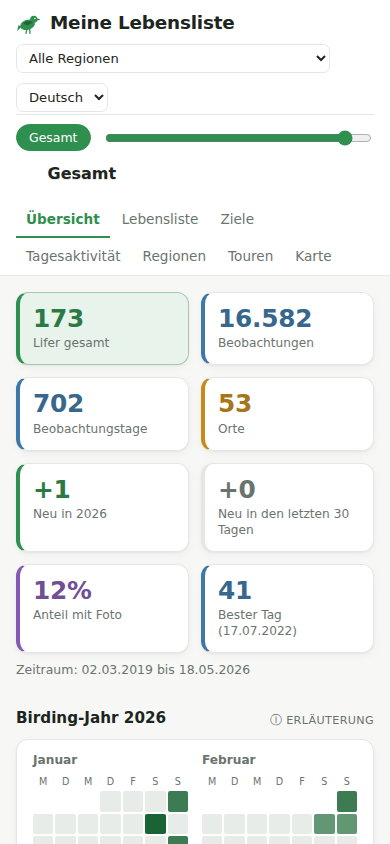
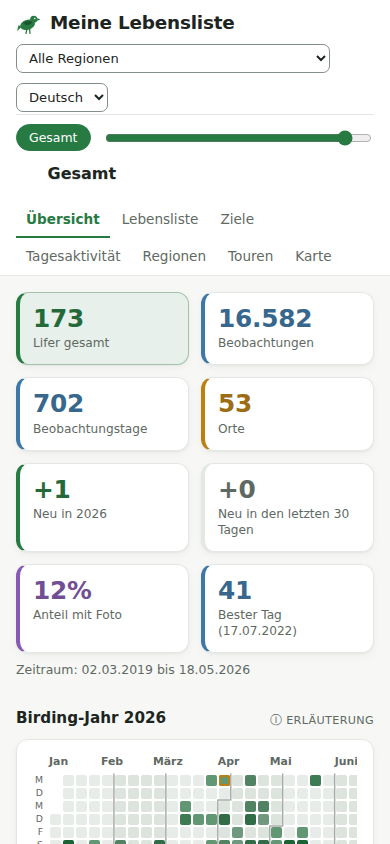
Docs: current screenshots, full contributor overview, fixed maintenance notes
- The README screenshots are taken again (all but the map, whose tiles need
  the internet): overview and dark theme show the calendar as one run of
  weeks. tools/make_screenshots.py found the wishlist by the tab's last h2,
  which since the holiday planner is the planner's, below the table: the clip
  got a negative height and the screenshot hung until its timeout; it now
  finds the heading by its text.
- CONTRIBUTING lists every file and folder of the project (CHANGELOG, CLAUDE.md,
  LICENSE, tsconfig/globals.d.ts, docs/*, release notes, demo_export.json in
  .gitignore), each src/*.js file with what it holds, that the order of
  APP_JS_FILES matters and a new file must go there, and test_gbif_planner.py;
  its demo paragraph no longer says "daraus" before what it refers to, and the
  tsc command has --yes as in CI.
- docs/maintenance.md: the screenshot sentence names its source, the release
  example uses v0.7.0, and it says that no gbif_planner_eu.json exists yet.

diff --git a/tools/make_screenshots.py b/tools/make_screenshots.py
@@ -96,7 +96,8 @@ def main():
 
             # Ziele: species still missing, grouped by season
             page = open_page(hash="#targets")
-            h2 = "#tab-targets h2:last-of-type"
+            # by its text: since the holiday planner came, the tab's last h2 is the planner's, below this table
+            h2 = "#tab-targets h2:has-text('Nie gesehene Arten')"
             last_row = page.locator("#wish-out tbody tr").nth(12)
             last_row.scroll_into_view_if_needed()
             shot(page, "targets.png", section(page, h2, f"#wish-out tbody tr >> nth=12"))

diff --git a/CONTRIBUTING.md b/CONTRIBUTING.md
@@ -21,30 +21,55 @@ Bitte beachten:
 | --- | --- |
 | `lifelist.py` | liest den Export und erstellt die HTML-Seite |
 | `template.html` | Vorlage der Seite (HTML und CSS) mit den Platzhaltern `__DATA_JSON__`, `__APP_JS__`, `__VENDOR_JS__`, `__VENDOR_CSS__` |
-| `src/*.js` | JavaScript der Seite, aufgeteilt nach Tab und Thema (`counties.js`: Namen der Landkreise zu ornithos Kreiskürzeln) |
+| `src/*.js` | JavaScript der Seite, aufgeteilt nach Tab und Thema (siehe „Aufbau des JavaScript“) |
+| `src/globals.d.ts`, `tsconfig.json` | nur für die Typprüfung mit `tsc`, gehen nicht in die Seite ein |
 | `vendor/` | mitgelieferte Bibliotheken Leaflet, Leaflet.markercluster und Chart.js |
 | `species_reference.json` | Artnamen und Saisonzeiträume |
 | `data/` | Daten der Reiseziele aus GBIF (`tools/fetch_gbif_planner.py`) und das Schaubild der Touren-Einstellungen (`tools/make_tour_diagram.py`) |
-| `tests/` | automatische Tests mit erfundenen Beispieldaten |
+| `tests/` | automatische Tests mit erfundenen Beispieldaten (siehe „Tests“) |
 | `requirements-dev.txt` | Python-Pakete für die Mitarbeit (Playwright); für die Lebensliste selbst wird keines gebraucht |
 | `update.py`, `update.bat` | aktualisieren eine git-Kopie |
 | `build.py`, `build.bat`, `lifelist.spec` | bauen die `lifelist.exe` |
-| `.gitignore` | hält persönliche Daten aus dem Repository heraus: `export_*.json`, `lifelist*.html`, `reference/` und den GBIF-Zwischenspeicher |
+| `.gitignore` | hält persönliche Daten aus dem Repository heraus: `export_*.json`, `lifelist*.html`, `demo_export.json`, `reference/` und den GBIF-Zwischenspeicher |
 | `.github/workflows/release.yml` | baut die exe für ein Release |
+| `.github/release-notes/` | die Notizen jedes Releases, `v<Version>.md` |
 | `.github/workflows/tests.yml` | lässt bei jedem Pull Request und Push auf `master` die Tests und die Typprüfung laufen |
 | `verify.ps1`, `verify.bat` | prüfen die Prüfsumme der `lifelist.exe` |
 | `tools/` | Werkzeuge zur Pflege der Referenzdaten und Bibliotheken, für Beispieldaten und Screenshots |
-| `docs/screenshots/` | Bilder für die README |
+| `docs/maintenance.md` | Pflegeaufgaben der Projektleitung: Releases, Referenz- und GBIF-Daten, Bilder |
+| `docs/ideas.md` | gesammelte Ideen, noch nicht umgesetzt |
+| `docs/screenshots/`, `docs/tour-settings.png` | Bilder für die README |
+| `CHANGELOG.md` | Änderungen je Version, oben „Noch nicht veröffentlicht“ |
+| `CLAUDE.md` | Hinweise für Claude Code, die Regeln gelten aber für alle |
+| `LICENSE` | MIT-Lizenz |
 | `HOWTO.md`, `howto/` | Anleitung zum Export mit Screenshots |
 
 ## Aufbau des JavaScript
 
-Die Aufteilung in `src/*.js` dient nur der Bearbeitung. `lifelist.py` fügt die Dateien in fester Reihenfolge (`APP_JS_FILES`) zu einem einzigen `<script>` zusammen, ausgeliefert wird immer nur die eine HTML-Datei. Echte Module mit `import`/`export` gibt es bewusst nicht: `<script type="module">` scheitert unter `file://` an der CORS-Sperre von Chrome.
+Die Aufteilung in `src/*.js` dient nur der Bearbeitung. `lifelist.py` fügt die Dateien in fester Reihenfolge (`APP_JS_FILES`) zu einem einzigen `<script>` zusammen, ausgeliefert wird immer nur die eine HTML-Datei. Echte Module mit `import`/`export` gibt es bewusst nicht: `<script type="module">` scheitert unter `file://` an der CORS-Sperre von Chrome. Die Reihenfolge zählt: Spätere Dateien nutzen Konstanten der früheren. Eine neue Datei muss in `APP_JS_FILES`, sonst fehlt sie still in der Seite.
+
+| Datei | Inhalt |
+| --- | --- |
+| `i18n.js` | alle Texte der Seite, Deutsch und Englisch, und `t()` |
+| `counties.js` | Namen der Landkreise zu ornithos Kreiskürzeln |
+| `data.js` | liest die eingebetteten Daten, Zustand `S`, gemeinsame Helfer |
+| `charts.js` | Kurven, Balken, Farbskalen, Chart.js-Diagramme |
+| `heat.js` | die Heatmap-Tabellen mit Zellen, Summen und Auswahl |
+| `overview.js` | Übersicht: Kennzahlen, Kalender, Arten pro Jahr und Monat |
+| `list.js` | Lebensliste mit Suche, Sortierung und Detailzeilen |
+| `regions.js` | Regionen: Bundesländer, Landkreise, Gemeinden, Orte |
+| `targets.js` | Ziele: nie gesehene Arten, eigene Wunschliste |
+| `planner.js` | Urlaubsplaner mit den GBIF-Daten |
+| `activity.js` | Tagesaktivität: Uhrzeit, Wochentage, Tageszeit je Art |
+| `tours.js` | Touren, aus nahen Meldungen rekonstruiert |
+| `map.js` | Karte der Beobachtungsorte |
+| `timelapse.js` | Zeitraffer der Karte |
+| `app.js` | Kopfzeile, Tabs, Einstellungen, Druck, alle Ereignisse |
 
 Optional lässt sich der Code anhand seiner JSDoc-Kommentare mit dem TypeScript-Compiler prüfen, ohne dass TypeScript im ausgelieferten Code landet:
 
 ```bash
-npx --package typescript -- tsc -p tsconfig.json
+npx --yes --package typescript -- tsc -p tsconfig.json
 ```
 
 Einfaches `npx tsc` funktioniert nicht, weil ein fremdes npm-Paket namens `tsc` den echten Compiler verdeckt.
@@ -59,6 +84,7 @@ Die Tests nutzen erfundene Beispieldaten aus `tests/fixtures.py` und überschrei
 
 - `tests/test_build.py` prüft die Datenaufbereitung und braucht nur Python.
 - `tests/test_update.py` prüft `update.py` an Test-Repositories und braucht git.
+- `tests/test_gbif_planner.py` prüft `tools/fetch_gbif_planner.py` ohne Netz.
 - `tests/test_page.py` öffnet die Seite in einem unsichtbaren Chromium, klickt sich durch alle Tabs und Funktionen und meldet JavaScript-Fehler. Dafür wird Playwright gebraucht, sonst werden diese Tests übersprungen:
 
   ```bash
@@ -68,6 +94,6 @@ Die Tests nutzen erfundene Beispieldaten aus `tests/fixtures.py` und überschrei
 
 ## Beispieldaten zum Ausprobieren
 
-`python tools/make_demo_page.py` erzeugt daraus direkt `lifelist-demo.html`, die Demo, die auch jedem Release beiliegt.
-
 `tools/make_demo_export.py` erzeugt einen erfundenen, aber realistisch wirkenden Export (`demo_export.json`): ein fiktiver Beobachter aus der Nähe von Dresden, über mehrere Jahre an echten Beobachtungsorten, mit Reisen quer durch Deutschland. Gut zum Ausprobieren ohne eigene Daten: `python tools/make_demo_export.py`, dann `python lifelist.py --source demo_export.json`. Der Name passt mit Absicht nicht auf `export_*.json`: So mischt ein späteres `python lifelist.py` im selben Ordner die erfundenen Daten nicht unter die eigenen.
+
+`python tools/make_demo_page.py` erzeugt aus denselben erfundenen Daten direkt `lifelist-demo.html`, die Demo, die auch jedem Release beiliegt.

diff --git a/docs/maintenance.md b/docs/maintenance.md
@@ -5,8 +5,8 @@ Aufgaben, die nur die Projektleitung erledigt: Releases veröffentlichen, die mi
 ## Ein Release veröffentlichen
 
 1. Die Versionsnummer `APP_VERSION` in `src/i18n.js` erhöhen.
-2. Die Release-Notizen nach `.github/release-notes/v<Version>.md` schreiben, zum Beispiel `v0.3.0.md`, und in `CHANGELOG.md` den Abschnitt „Noch nicht veröffentlicht“ zur neuen Version machen; alles committen und pushen.
-3. Auf GitHub im Tab **Actions** den Workflow **Release** mit **Run workflow** starten. Alternativ das Tag selbst pushen: `git tag v0.3.0 && git push origin v0.3.0`.
+2. Die Release-Notizen nach `.github/release-notes/v<Version>.md` schreiben, zum Beispiel `v0.7.0.md`, und in `CHANGELOG.md` den Abschnitt „Noch nicht veröffentlicht“ zur neuen Version machen; alles committen und pushen.
+3. Auf GitHub im Tab **Actions** den Workflow **Release** mit **Run workflow** starten. Alternativ das Tag selbst pushen: `git tag v0.7.0 && git push origin v0.7.0`.
 
 Ein veröffentlichtes Release ersetzt der Workflow nie aus Versehen: Gibt es zur Versionsnummer schon ein Release (oder liegt ihr Tag auf einem anderen Commit), bricht er vor dem Bauen ab. Für ein neues Release also immer erst `APP_VERSION` erhöhen. Soll eine Version bewusst neu gebaut werden, den Workflow von Hand mit dem Häkchen **replace** starten; die neue exe hat dann eine neue Prüfsumme, eine früher veröffentlichte (etwa ein nachgetragener Abschnitt „Prüfsumme“ in den Notizen) passt nicht mehr und wird in den neuen Notizen durch die neue ersetzt. Fehlen die Notizen, bricht der Workflow ebenfalls ab.
 
@@ -18,7 +18,7 @@ Zum Ausprobieren lässt sich die exe auch selbst bauen: unter Windows `python bu
 
 ## Screenshots der README
 
-`tools/make_screenshots.py` erstellt daraus die Bilder in `docs/screenshots/` (braucht Playwright, siehe [Tests](../CONTRIBUTING.md#tests)). Mit `--map` kommt ein Bild der Karte dazu, dafür braucht es Internet für die Kartenkacheln.
+`tools/make_screenshots.py` erstellt die Bilder in `docs/screenshots/` aus den erfundenen Daten von `tools/make_demo_export.py` (braucht Playwright, siehe [Tests](../CONTRIBUTING.md#tests)). Mit `--map` kommt ein Bild der Karte dazu, dafür braucht es Internet für die Kartenkacheln.
 
 ## Welche Felder hat ein Export?
 
@@ -28,7 +28,7 @@ Zum Ausprobieren lässt sich die exe auch selbst bauen: unter Windows `python bu
 
 - `tools/extract_species_reference.py` aktualisiert `species_reference.json` aus der ornitho-Referenzliste (`reference/ornitho-Referenzliste-Arten-*.xlsx`, braucht `pip install openpyxl`). Der Ordner `reference/` ist wegen unklarer Weitergaberechte nicht im Repository.
 - `tools/fetch_occurrence_windows.py` ermittelt die Beobachtungszeiträume der Zug- und Gastvögel über die öffentliche GBIF-API.
-- `tools/fetch_gbif_planner.py` erzeugt die Daten der Reiseziele (`data/gbif_planner_de.json`, `_eu.json`) über die GBIF-API. Zuerst `--check`, dann `--scope de` oder `--scope eu`. Die Antworten werden in `tools/.gbif_cache/` zwischengespeichert: Ein abgebrochener Lauf setzt dort wieder an, und mit `--offline` lassen sich die Dateien aus dem Zwischenspeicher neu berechnen, ohne GBIF erneut zu fragen.
+- `tools/fetch_gbif_planner.py` erzeugt die Daten der Reiseziele (`data/gbif_planner_de.json`; `_eu.json` für Europa gibt es noch nicht) über die GBIF-API. Zuerst `--check`, dann `--scope de` oder `--scope eu`. Die Antworten werden in `tools/.gbif_cache/` zwischengespeichert: Ein abgebrochener Lauf setzt dort wieder an, und mit `--offline` lassen sich die Dateien aus dem Zwischenspeicher neu berechnen, ohne GBIF erneut zu fragen.
 - `tools/make_tour_diagram.py` zeichnet das Schaubild der Touren-Einstellungen (Deutsch und Englisch, für die Seite und die README) neu, etwa nach einer Änderung der Standardwerte oder der Namen.
 - `tools/update_vendor.py` lädt die Bibliotheken in `vendor/` neu, zum Beispiel für ein Versions-Update.
 
